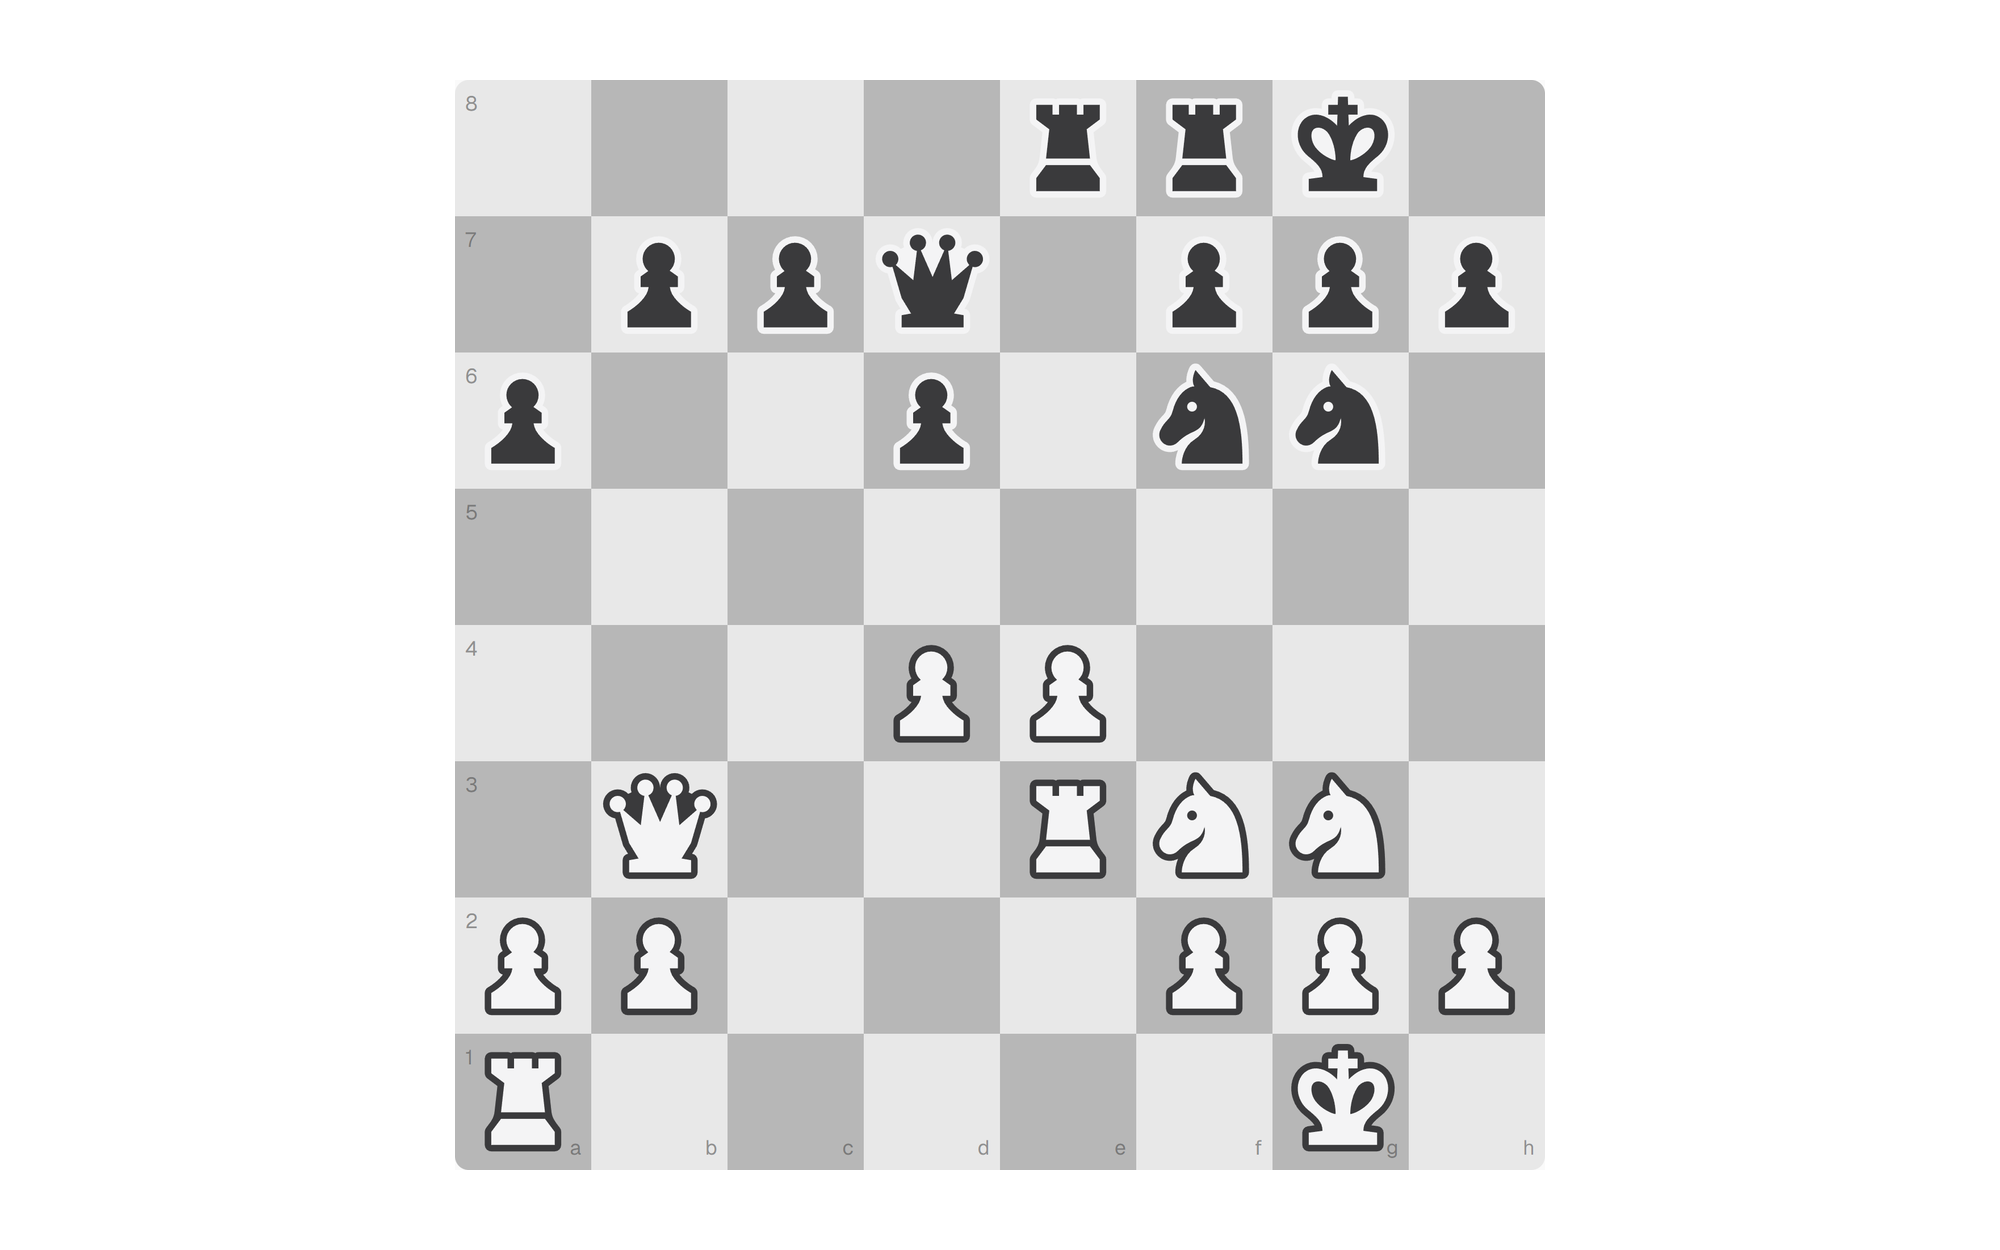
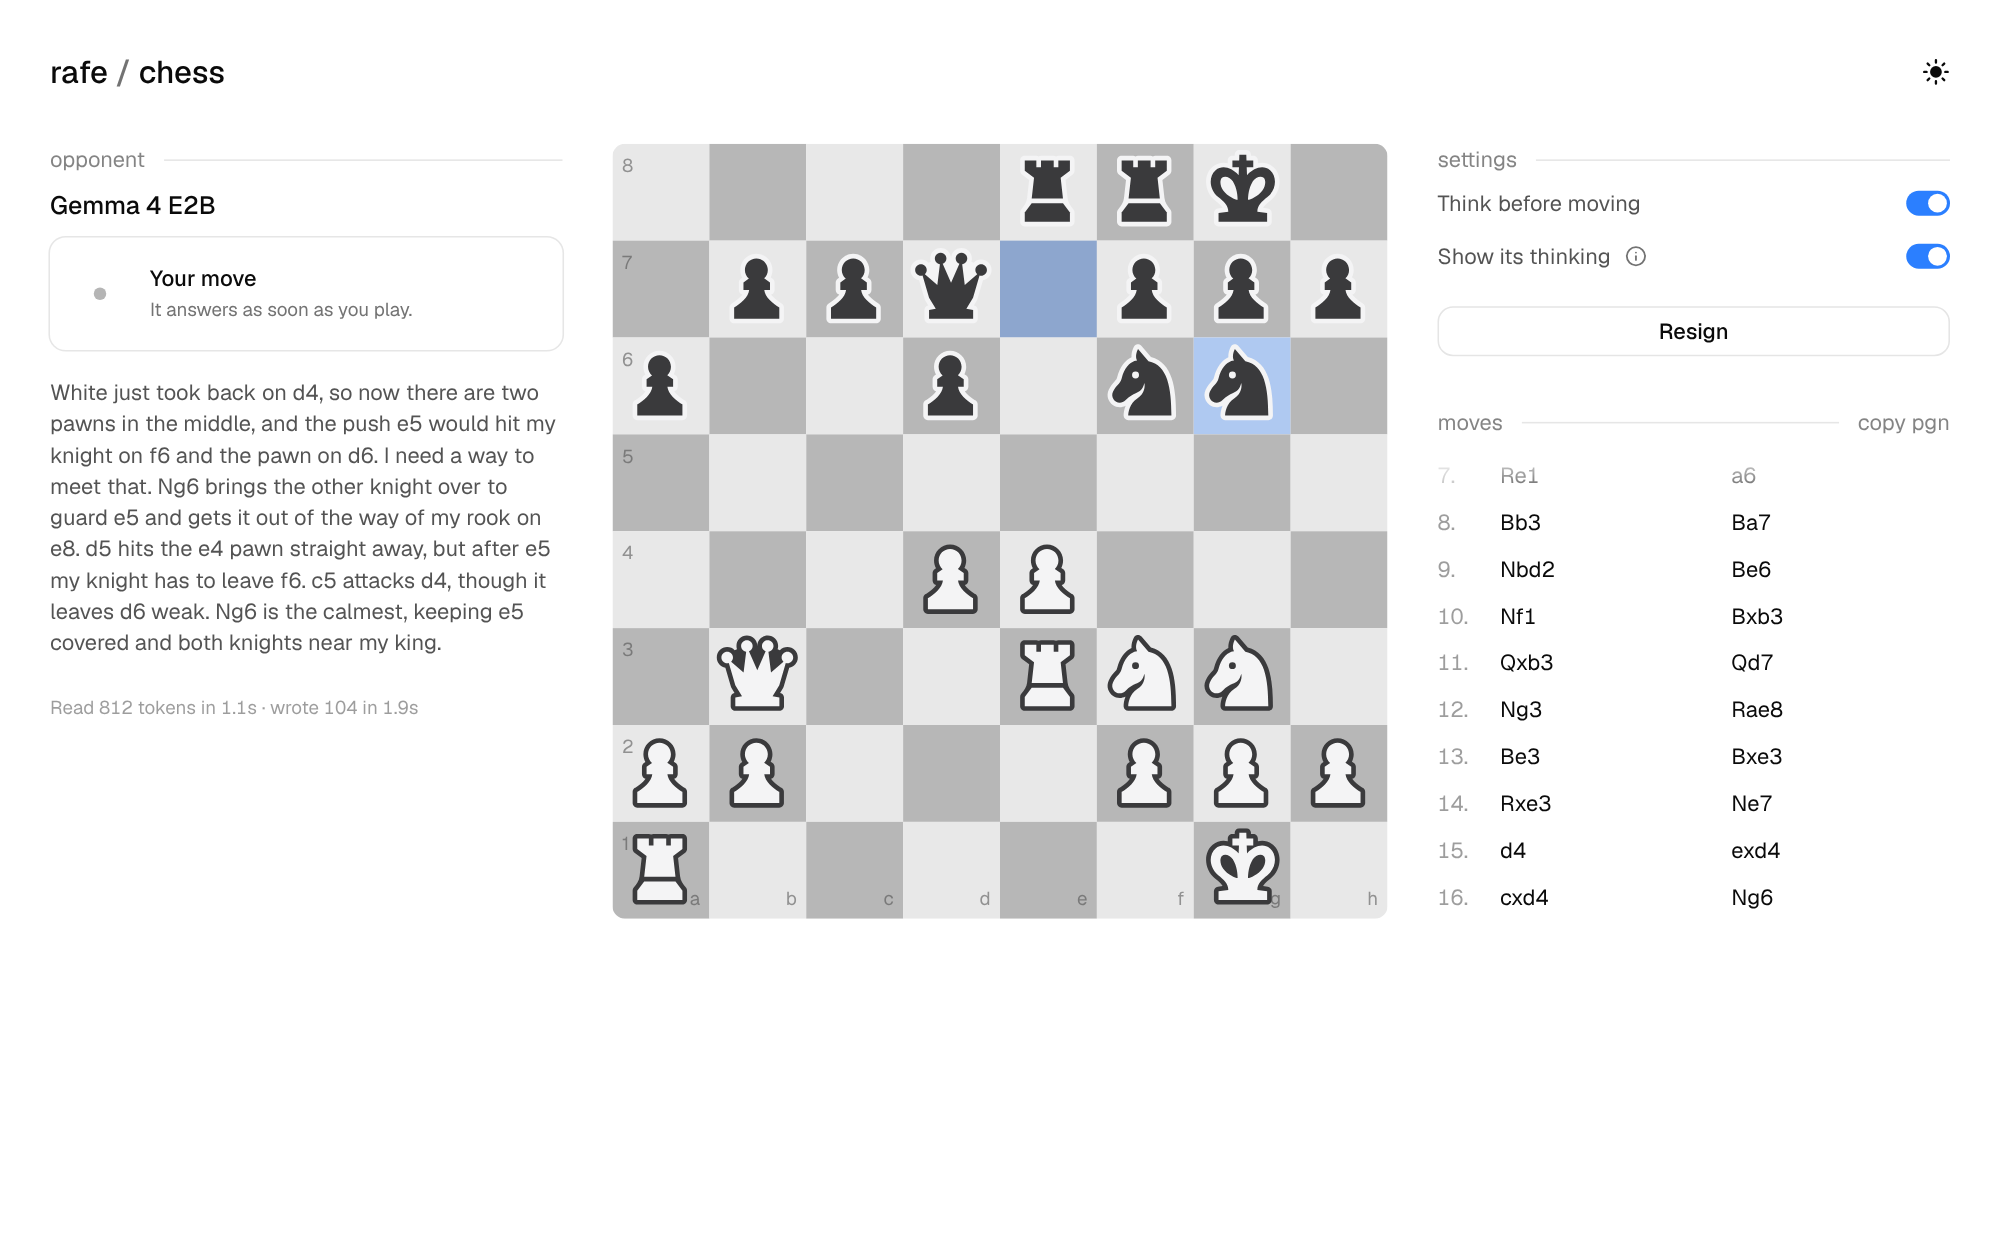
Use a screenshot of a chess game in progress, thinking showing, as the /development preview
Claude-Session: https://claude.ai/code/session_01HGKG6U7k8wdaAMMQaDu5Q7

diff --git a/workspaces/web/app/routes/development.tsx b/workspaces/web/app/routes/development.tsx
@@ -66,7 +66,7 @@ const projects: Project[] = [
 		preview: {
 			src: chessPreview,
 			srcSet: chessPreviewSet,
-			alt: 'A chess board partway through a game, both sides castled with a few pieces traded'
+			alt: 'A game of chess in progress against Gemma 4 E2B, with its thinking beside the board and the move list on the right'
 		}
 	}
 ];
